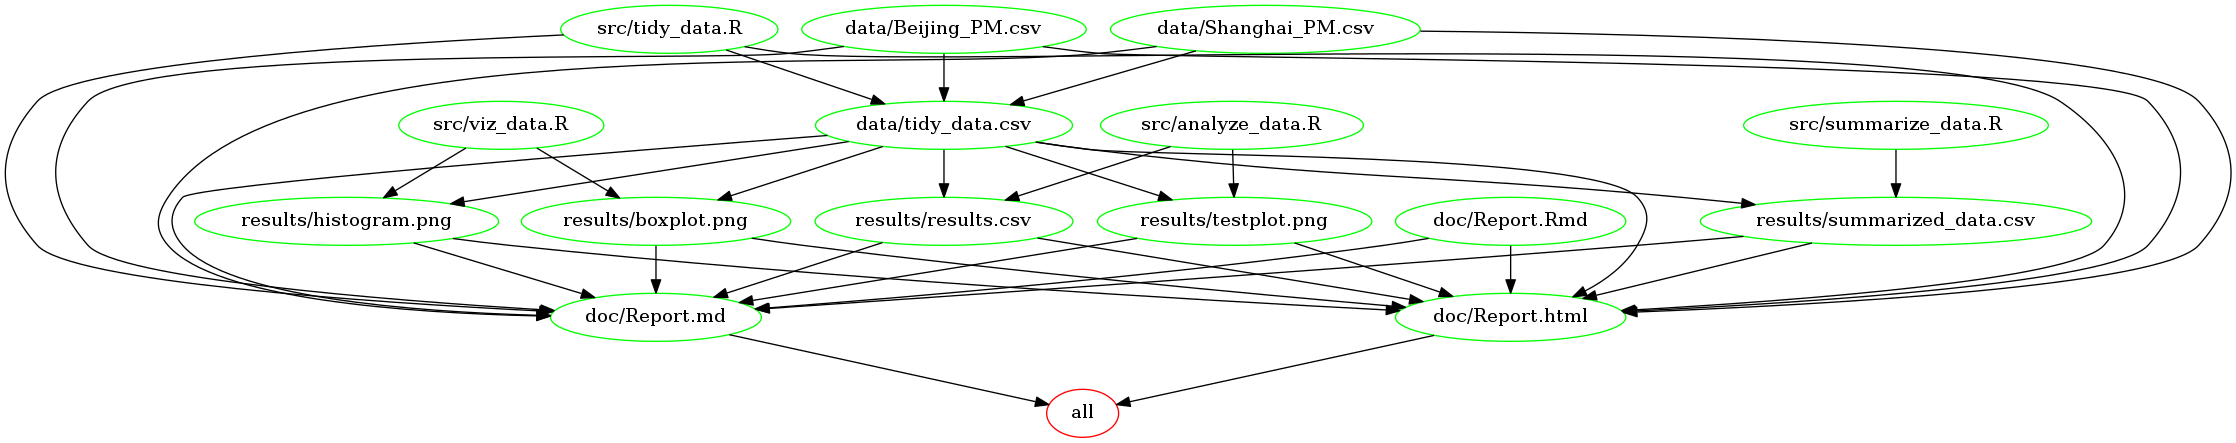
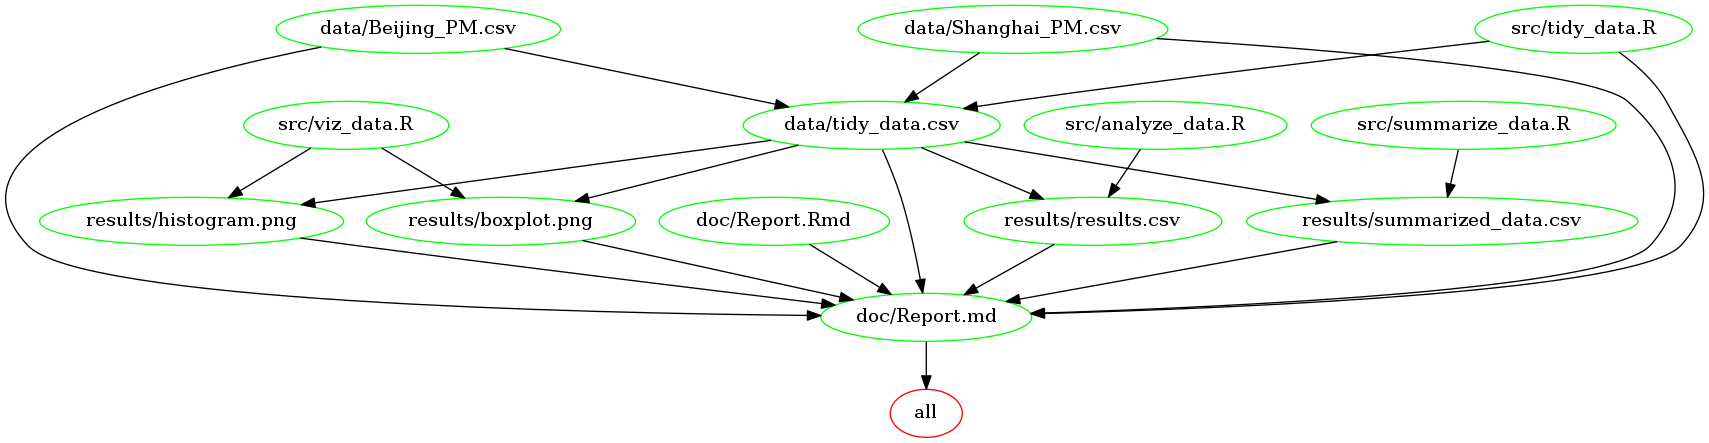
Delete testplot, run_all; modify makefile,dependency graph

diff --git a/README.md b/README.md
@@ -46,9 +46,6 @@ make results/results.csv results/testplot.png
 # input all above results and render md version of the report
 # dependency: rmarkdownm, knitr, tidyverse and kableExtra
 make doc/Report.md
-# render html version of the report
-# dependency: rmarkdownm, knitr, tidyverse and kableExtra
-doc/Report.html
 ```
 
 You could find our final report in the `doc` folder after running the script. OR you could click [Final Report](https://github.com/UBC-MDS/DSCI_522_PM2.5_Analysis/blob/master/doc/Report.md).
@@ -58,7 +55,7 @@ The following command cleans outputs.
 make clean
 ```
 
-The following is the visualization of Makefile:
+The following is the dependency diagram of the Makefile:
 
 ![](Makefile.png)
 
@@ -85,3 +82,9 @@ docker run --rm -v PATH_ON_YOUR_COMPUTER:/home/dsci_522_pm2.5_analysis wilsonden
     - `tidyverse` Version 1.2.1
     - `broom` Version 0.5.0
     - `plyr` Version 1.8.4
+
+## Release Version
+
+- [Version 3.0](https://github.com/UBC-MDS/DSCI_522_PM2.5_Analysis/tree/V3.0)
+- [Version 2.0](https://github.com/UBC-MDS/DSCI_522_PM2.5_Analysis/tree/v2.0)
+- [Version 0.1](https://github.com/UBC-MDS/DSCI_522_PM2.5_Analysis/tree/v0.1)

diff --git a/doc/Report.md b/doc/Report.md
@@ -122,12 +122,6 @@ The following is our test result:
 
 As we can see in `Table 5`, p-value is extremely small and this is a strong evidence to reject the null hypothesis.
 
-*Figure 3. Density curve of the corresponding t-distribution, 95% threshold and test statistic*
-
-![](../results/testplot.png)
-
-The above plot shows that our test statistic is far right of the threshold and this is another evidence to reject the null hypothesis.
-
 In conclusion, we reject the null hypothesis that there's no difference between the average PM2.5 in Beijing and Shanghai.
 
 Beyond the project
